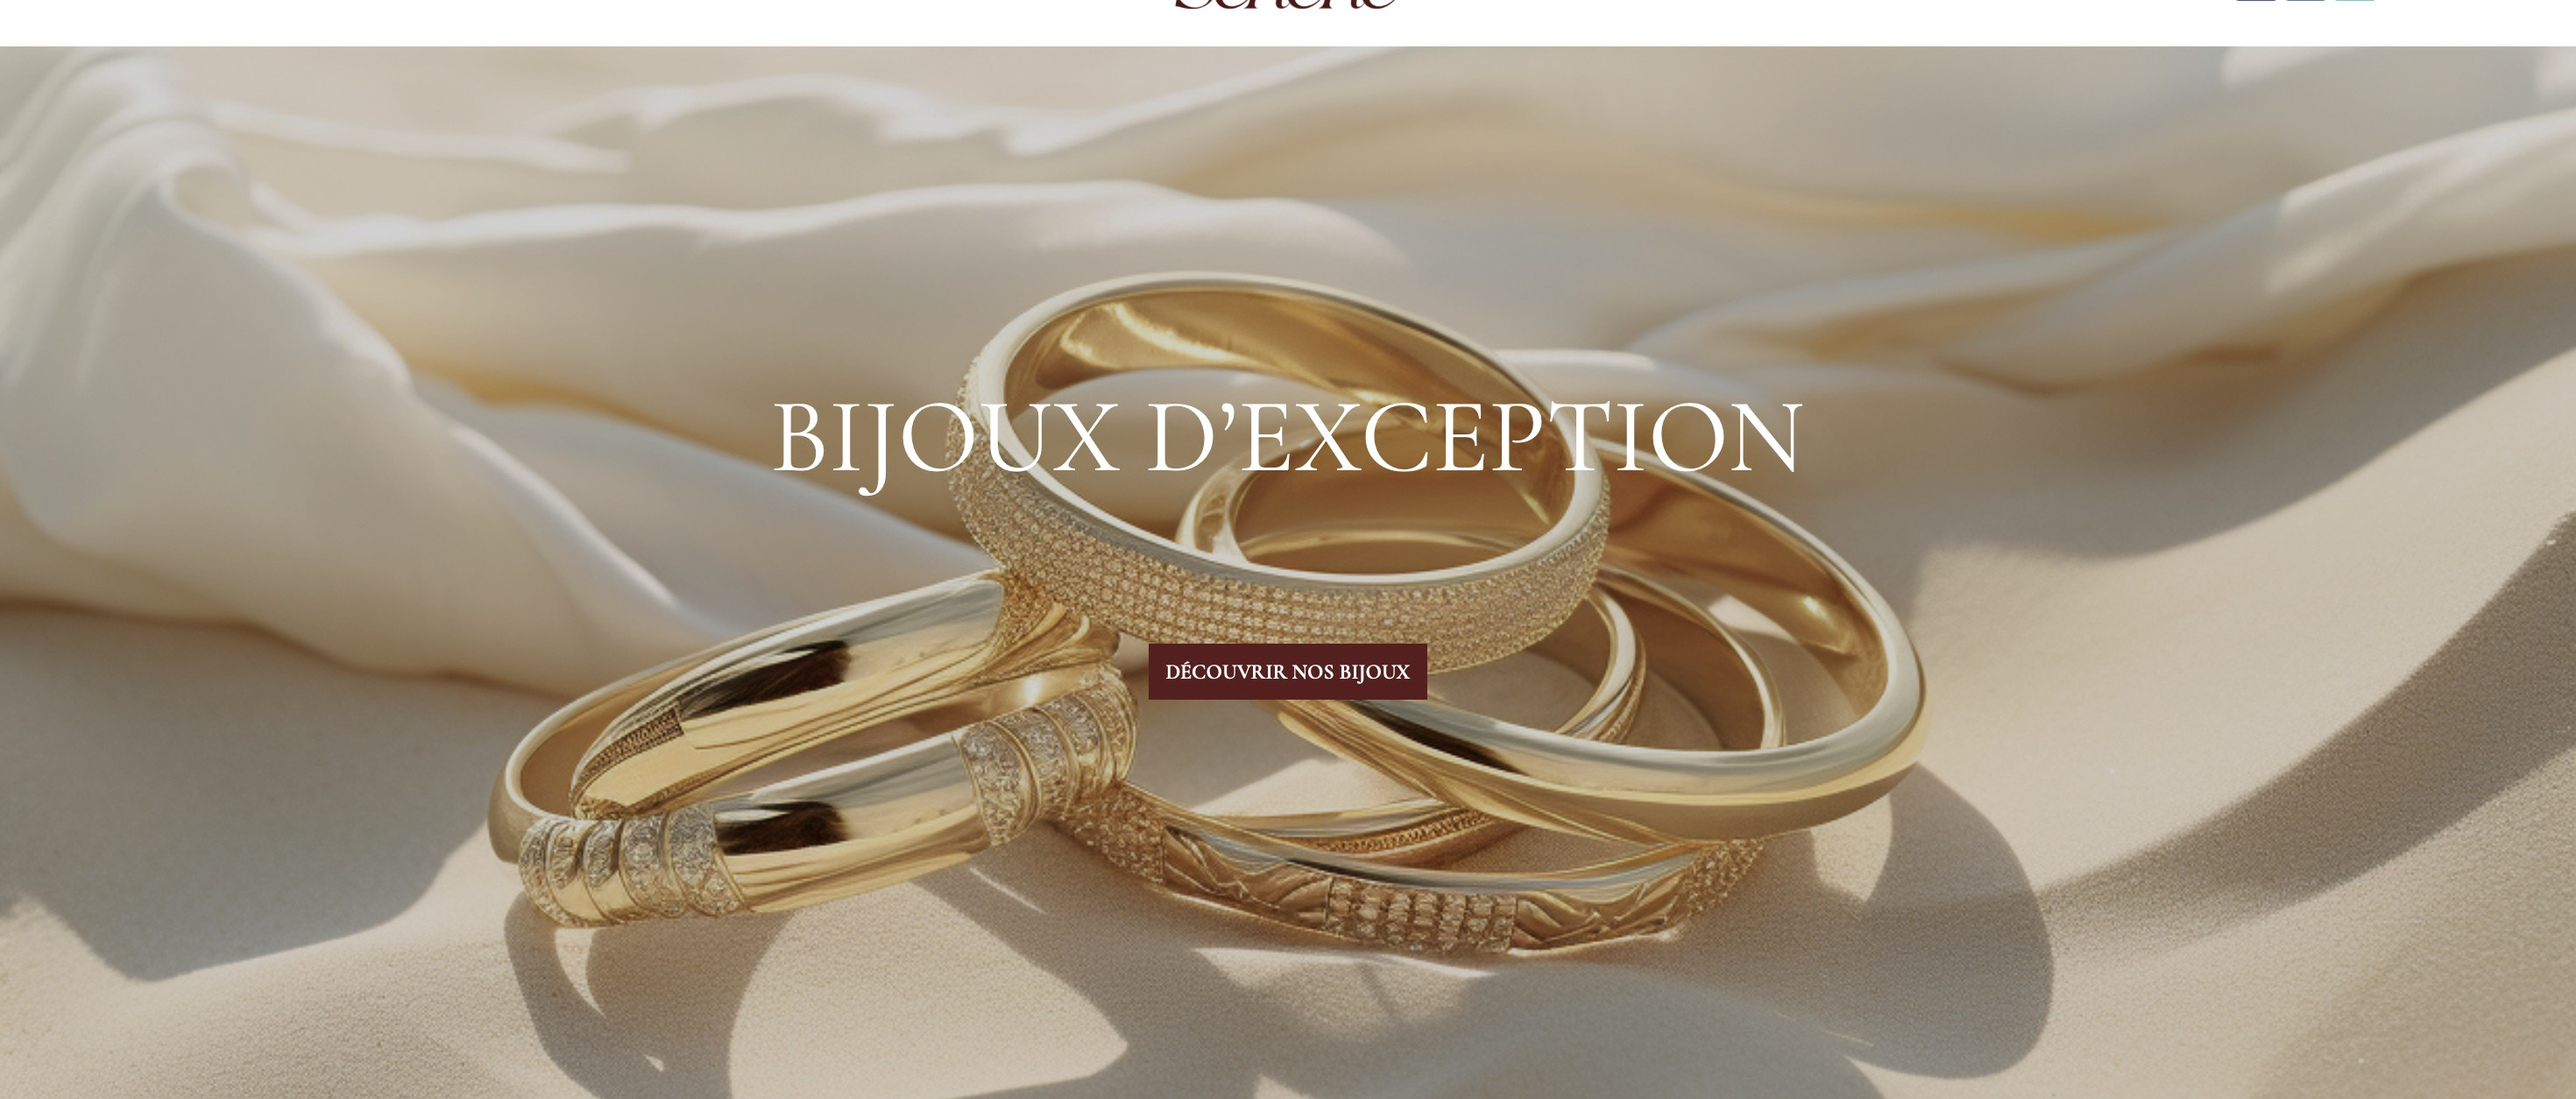
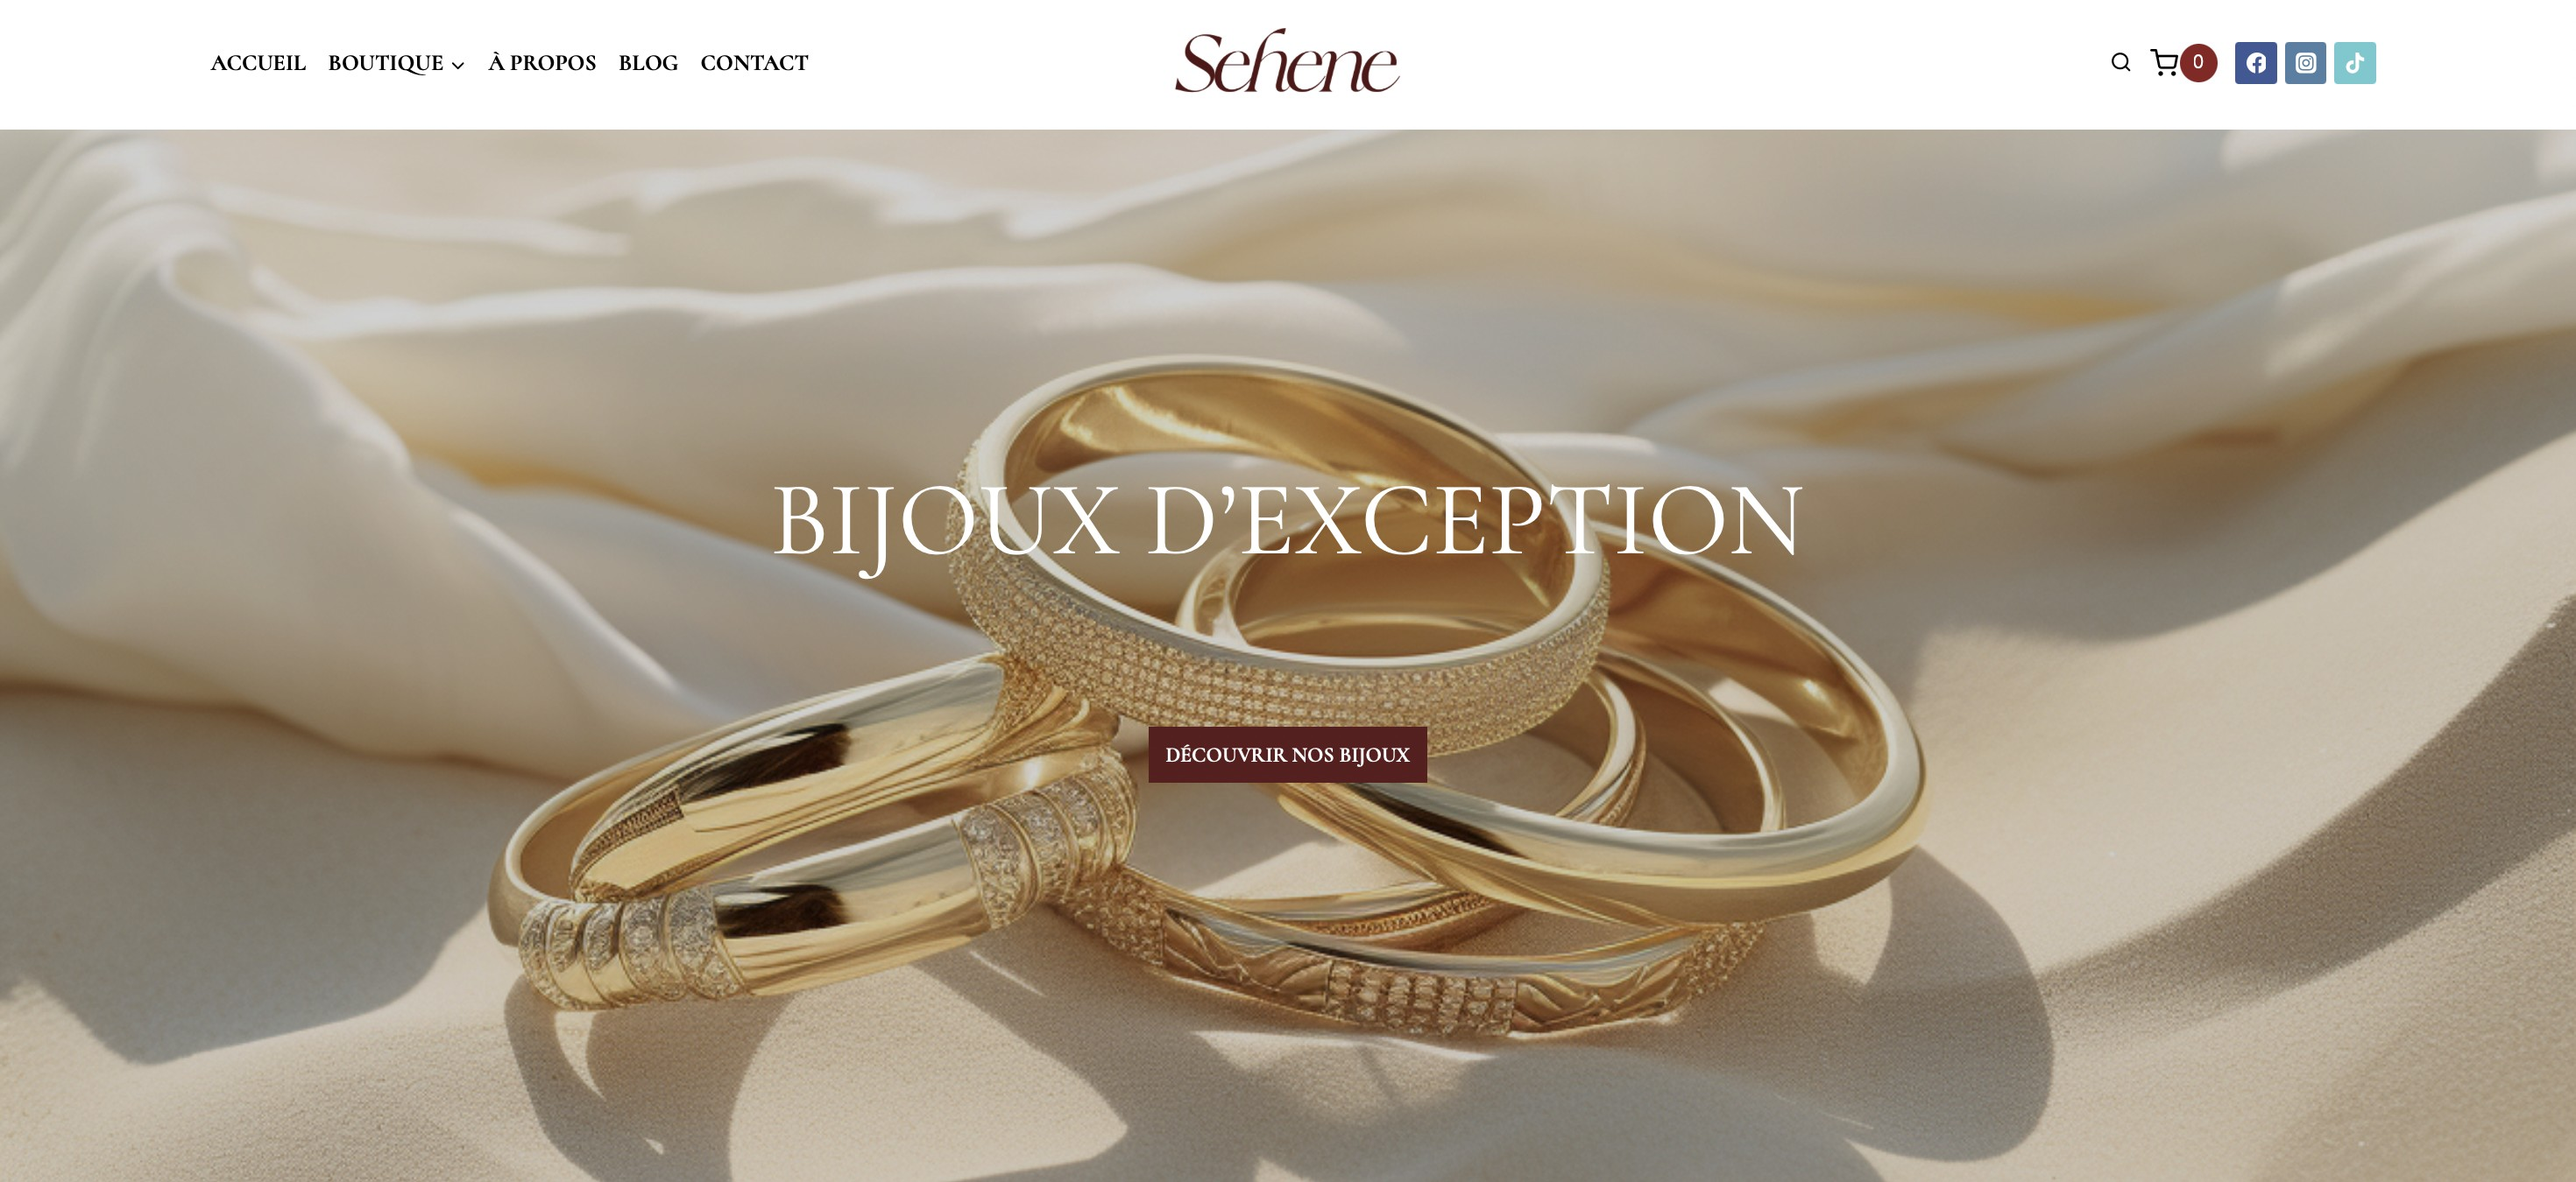
Show navbars in carousel images, remove autoplay pause entirely
Restore the full original screenshots (with navbar) for Centralis,
Univers des sœurs and Une Oummy qui bricole; re-crop Sehene to keep
its navbar while only trimming the empty white footer.

Fix the carousel permanently freezing: mouseenter/mouseleave were
bound to the cards themselves, which continuously move via CSS
transform — once a card animated out from under a stationary cursor,
no mouseleave ever fired (browsers only recompute enter/leave on
actual pointer movement), leaving it paused forever. Drop the
hover-pause behavior entirely so it never stalls.

Claude-Session: https://claude.ai/code/session_01L4feZGNX4GpSS44QNya5iV

diff --git a/index.html b/index.html
@@ -30,16 +30,16 @@
       <div class="carousel-stage">
         <div class="carousel-3d" id="portfolioCarousel">
           <a class="carousel-card" data-i="0" href="https://centralisbusinessgroup.com" target="_blank" rel="noopener">
-            <img src="assets/centralis-card.jpg" alt="Centralis Business Group" loading="lazy">
+            <img src="assets/centralis-hero.png" alt="Centralis Business Group" loading="lazy">
           </a>
           <a class="carousel-card" data-i="1" href="https://www.emma-d.webdesignies.fr" target="_blank" rel="noopener">
             <img src="assets/sehene-card.jpg" alt="Sehene" loading="lazy">
           </a>
           <a class="carousel-card" data-i="2" href="https://www.universdessoeurs.fr/" target="_blank" rel="noopener">
-            <img src="assets/soeurs-card.jpg" alt="Univers des sœurs" loading="lazy">
+            <img src="assets/soeurs-hero.png" alt="Univers des sœurs" loading="lazy">
           </a>
           <div class="carousel-card" data-i="3">
-            <img src="assets/oummy-card.jpg" alt="Une Oummy qui bricole" loading="lazy">
+            <img src="assets/oummy-hero.png" alt="Une Oummy qui bricole" loading="lazy">
           </div>
         </div>
       </div>

diff --git a/script.js b/script.js
@@ -67,20 +67,7 @@
     updateCaption();
 
     if (!prefersReducedMotion) {
-      let autoplay = setInterval(() => goTo(activeIndex + 1), 3200);
-      let hoverCount = 0;
-      const pause = () => {
-        hoverCount += 1;
-        clearInterval(autoplay);
-      };
-      const resume = () => {
-        hoverCount = Math.max(0, hoverCount - 1);
-        if (hoverCount === 0) autoplay = setInterval(() => goTo(activeIndex + 1), 3200);
-      };
-      carouselCards.forEach((card) => {
-        card.addEventListener('mouseenter', pause);
-        card.addEventListener('mouseleave', resume);
-      });
+      setInterval(() => goTo(activeIndex + 1), 3200);
     }
   }
 
